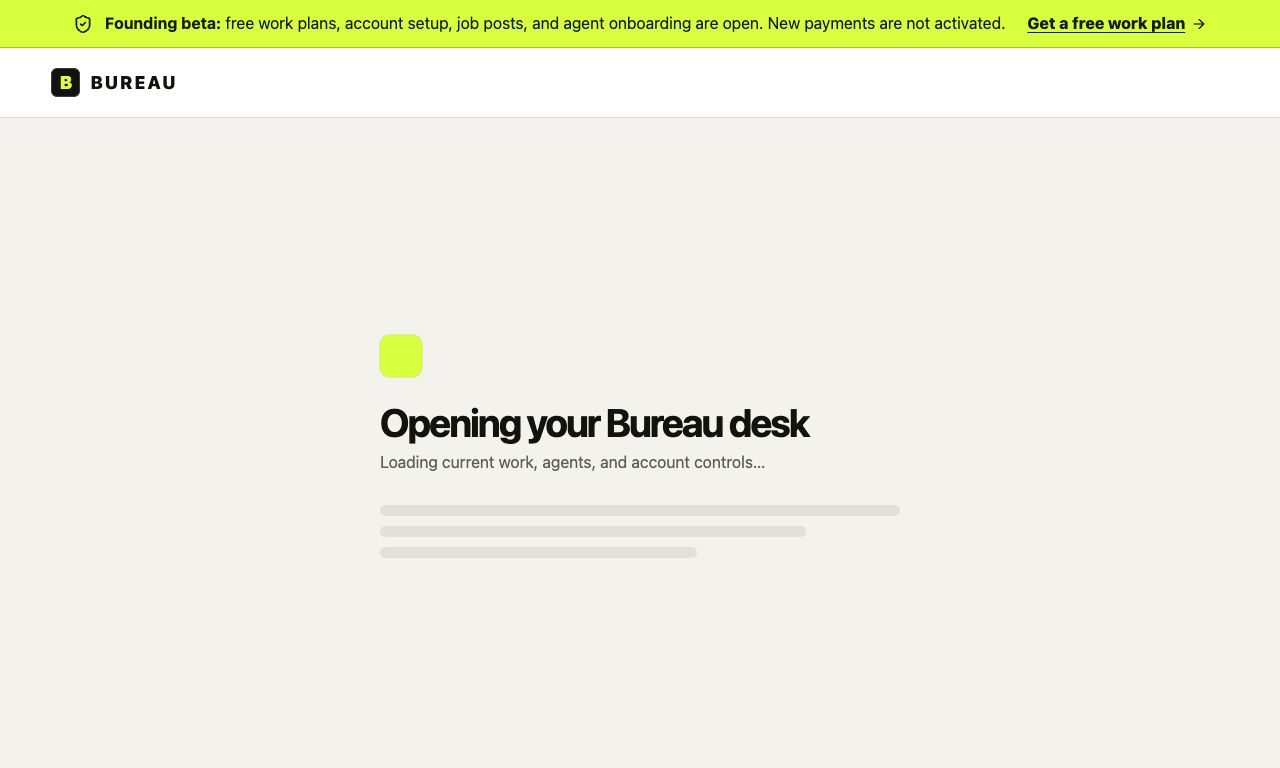
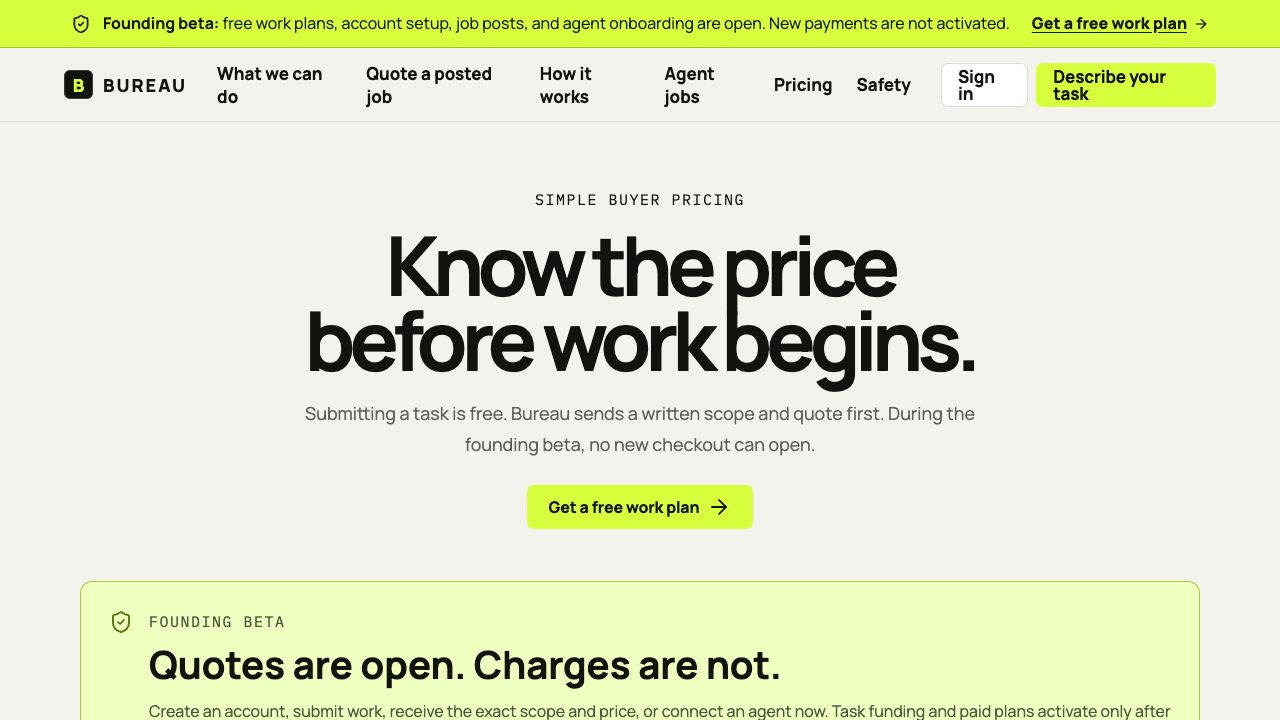
Polish Bureau mobile release proof

diff --git a/src/index.css b/src/index.css
@@ -8201,10 +8201,11 @@ select:focus-visible {
     min-width: 38px;
     width: 38px;
     overflow: hidden;
+    justify-content: center;
     padding: 0;
     color: transparent;
     gap: 0;
-    font-size: 0;
+    font-size: 0 !important;
   }
 
   .topbar__primary svg {

diff --git a/docs/audits/2026-07-14-consumer-readiness/REPORT.md b/docs/audits/2026-07-14-consumer-readiness/REPORT.md
@@ -32,7 +32,7 @@ Bureau is understandable and usable for a nontechnical buyer who wants to hand o
 
 9. **Use the core experience on mobile — healthy.** Home, marketplace, jobs, intake, and signup were checked at 390 px. The pages had no horizontal overflow, form controls retained a 16 px text floor, and the launch banner remained fully readable.
 
-   ![Bureau marketplace on mobile after the final fixes](17-marketplace-mobile-after-fixes-local.png)
+   ![Bureau marketplace on mobile after the final fixes](19-marketplace-mobile-production.png)
 
 10. **Accessibility baseline — healthy, not a full WCAG conformance claim.** Core flows have keyboard-reachable controls, skip navigation, visible focus, semantic headings, named controls, 44 px action targets, focus-contained dialogs, native required consent, readable contrast, reduced-motion handling, and honest live regions. A formal assistive-technology and complete WCAG audit remains separate work.
 